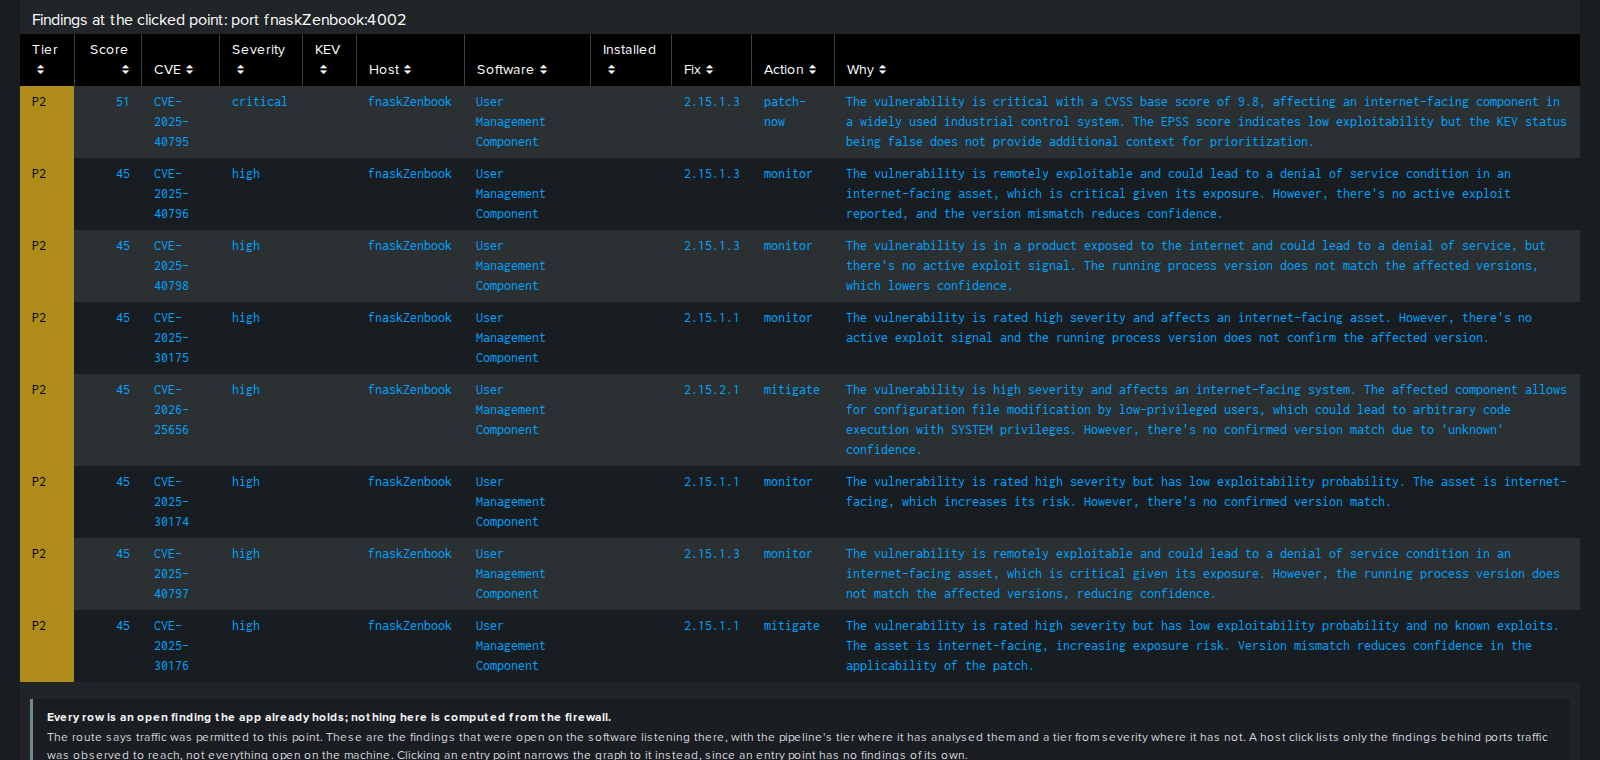
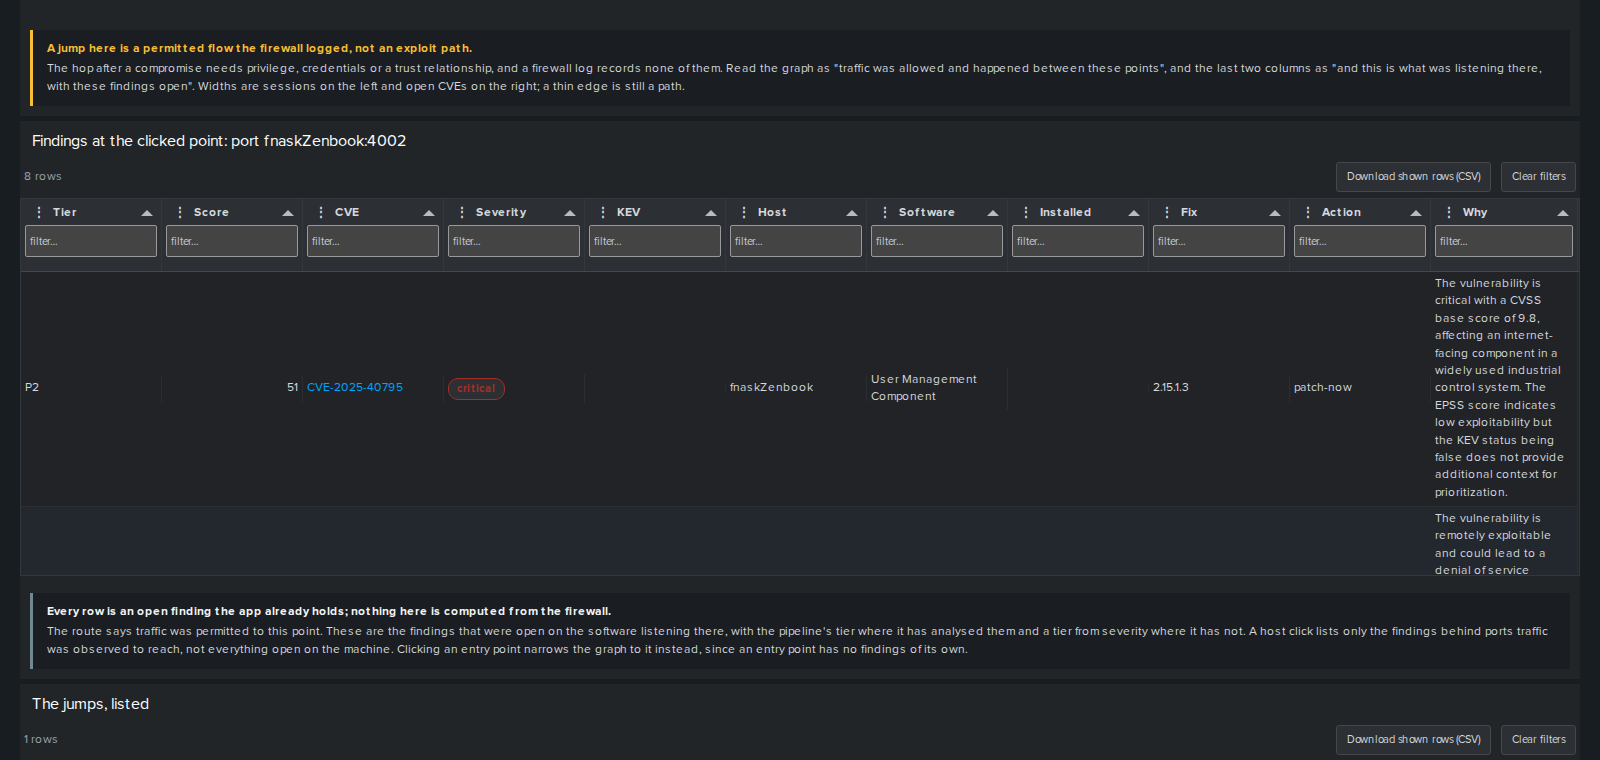
Use the app's grid for the two Routes tables, and publish a screenshot gallery
The findings drill-down and the jumps list were plain Simple XML tables,
while every other table in the app is the riskability_grid viz: sortable
and filterable per column, wrapping, with a filter note and an honest
empty state. Both now use it. The CVE cell still opens the encyclopaedia,
through the grid's click.name and row.CVE rather than the plain table's
field condition.

docs/index.html is a gallery of every capture under docs/screenshots,
built by tools/build_gallery.py from a caption table, with a section for
the pages that changed today on top and a filter box. GitHub Pages serves
it from the docs folder, so a capture committed there is browsable at a
URL with no build step. Fresh captures of the five pages that changed
today are included.

Claude-Session: https://claude.ai/code/session_015h4XPQmzofVzmoNycK2dQN

diff --git a/docs/index.html b/docs/index.html
@@ -1,0 +1,167 @@
+<!doctype html>
+<html lang="en">
+<head>
+<meta charset="utf-8">
+<meta name="viewport" content="width=device-width, initial-scale=1">
+<title>Riskability screenshots</title>
+<meta name="color-scheme" content="dark light">
+<style>
+  :root { --bg:#171d21; --panel:#1f262c; --line:#2f3a44; --fg:#e6ebef; --dim:#b9c2cc; --accent:#8b1a1a; --amber:#f8be34; }
+  @media (prefers-color-scheme: light) { :root { --bg:#f5f6f7; --panel:#fff; --line:#d9dee3; --fg:#1a1d21; --dim:#5a6672; } }
+  * { box-sizing:border-box }
+  body { margin:0; background:var(--bg); color:var(--fg); font:14px/1.5 -apple-system, "Segoe UI", Roboto, Helvetica, Arial, sans-serif; }
+  header { padding:28px 32px 12px; border-bottom:3px solid var(--accent); }
+  header h1 { margin:0 0 4px; font-size:22px; }
+  header p { margin:0; color:var(--dim); max-width:90ch; }
+  h2 { font-size:15px; margin:28px 32px 10px; color:var(--amber); text-transform:uppercase; letter-spacing:.04em; }
+  .grid { display:grid; grid-template-columns:repeat(auto-fill, minmax(420px, 1fr)); gap:18px; padding:0 32px 32px; }
+  .card { margin:0; background:var(--panel); border:1px solid var(--line); border-radius:6px; overflow:hidden; }
+  .card img { display:block; width:100%; height:auto; aspect-ratio:16/10; object-fit:cover; object-position:top; border-bottom:1px solid var(--line); }
+  .card figcaption { padding:10px 12px 12px; font-size:13px; }
+  .card b { display:block; margin-bottom:2px; }
+  .dim { color:var(--dim); }
+  .date { display:block; margin-top:6px; font-size:11px; color:var(--dim); }
+  .search { margin:14px 32px 0; }
+  .search input { width:100%; max-width:480px; padding:7px 10px; border:1px solid var(--line); border-radius:4px; background:var(--panel); color:var(--fg); font-size:13px; }
+  footer { padding:12px 32px 28px; color:var(--dim); font-size:12px; }
+</style>
+</head>
+<body>
+<header>
+  <h1>Riskability screenshots</h1>
+  <p>Captures of every dashboard, taken from a live instance against real inventory and demo firewall data. Click any image to open it at full size. The files live in <code>docs/screenshots/</code> and this page lists whatever is there.</p>
+</header>
+<div class="search"><input type="search" id="q" placeholder="Filter by name or caption" aria-label="Filter screenshots"></div>
+<h2>Changed on 2026-09-03</h2>
+<div class="grid" id="today">
+      <figure class="card" data-name="ai-prioritization">
+        <a href="screenshots/ai-prioritization.png" target="_blank" rel="noopener"><img loading="lazy" src="screenshots/ai-prioritization.png" alt="AI prioritization"></a>
+        <figcaption><b>AI prioritization</b> <span class="dim">The sea of CVEs banded by exploit likelihood, the few lifted above the waterline, and the paged, sortable, filterable work queue with the model&#x27;s reasoning beside each row.</span><span class="date">2026-09-02</span></figcaption>
+      </figure>
+      <figure class="card" data-name="ai-explain-rendered">
+        <a href="screenshots/ai-explain-rendered.png" target="_blank" rel="noopener"><img loading="lazy" src="screenshots/ai-explain-rendered.png" alt="Explain in depth, rendered"></a>
+        <figcaption><b>Explain in depth, rendered</b> <span class="dim">A saved explanation opened from its green button: headings, paragraphs and lists built from the model&#x27;s markdown, with Re-run beside it.</span><span class="date">uncommitted</span></figcaption>
+      </figure>
+      <figure class="card" data-name="network-evidence">
+        <a href="screenshots/network-evidence.png" target="_blank" rel="noopener"><img loading="lazy" src="screenshots/network-evidence.png" alt="Network evidence"></a>
+        <figcaption><b>Network evidence</b> <span class="dim">Whether a permitted flow to a listening port has been observed, the coverage state that gates every grade, and where the app refused to name a host.</span><span class="date">uncommitted</span></figcaption>
+      </figure>
+      <figure class="card" data-name="netevidence-grades">
+        <a href="screenshots/netevidence-grades.png" target="_blank" rel="noopener"><img loading="lazy" src="screenshots/netevidence-grades.png" alt="Network evidence, grades"></a>
+        <figcaption><b>Network evidence, grades</b> <span class="dim">The grade donut: no green anywhere, because none of these grades means safe.</span><span class="date">2026-09-02</span></figcaption>
+      </figure>
+      <figure class="card" data-name="routes">
+        <a href="screenshots/routes.png" target="_blank" rel="noopener"><img loading="lazy" src="screenshots/routes.png" alt="Routes"></a>
+        <figcaption><b>Routes</b> <span class="dim">The jumps a permitted flow has been seen to make: entry point, host reached, port, software listening, open findings.</span><span class="date">2026-09-02</span></figcaption>
+      </figure>
+      <figure class="card" data-name="routes-drilldown">
+        <a href="screenshots/routes-drilldown.png" target="_blank" rel="noopener"><img loading="lazy" src="screenshots/routes-drilldown.png" alt="Routes, drill-down"></a>
+        <figcaption><b>Routes, drill-down</b> <span class="dim">Clicking a point on the route opens the findings behind it on the same page.</span><span class="date">2026-09-03</span></figcaption>
+      </figure>
+      <figure class="card" data-name="admin-escalation-rules">
+        <a href="screenshots/admin-escalation-rules.png" target="_blank" rel="noopener"><img loading="lazy" src="screenshots/admin-escalation-rules.png" alt="Escalation rules (admin)"></a>
+        <figcaption><b>Escalation rules (admin)</b> <span class="dim">Every rule with a switch, the replay of what each would move, and locked rules with the reason they cannot be enabled.</span><span class="date">uncommitted</span></figcaption>
+      </figure>
+      <figure class="card" data-name="admin-firewall-source">
+        <a href="screenshots/admin-firewall-source.png" target="_blank" rel="noopener"><img loading="lazy" src="screenshots/admin-firewall-source.png" alt="Firewall data source (admin)"></a>
+        <figcaption><b>Firewall data source (admin)</b> <span class="dim">Index or accelerated data model, field mapping, entry points, freshness; Test and top-100 preview before Save.</span><span class="date">uncommitted</span></figcaption>
+      </figure>
+</div>
+<h2>Everything else</h2>
+<div class="grid" id="rest">
+      <figure class="card" data-name="attack-matrix-fuller">
+        <a href="screenshots/attack-matrix-fuller.png" target="_blank" rel="noopener"><img loading="lazy" src="screenshots/attack-matrix-fuller.png" alt="ATT&amp;CK matrix"></a>
+        <figcaption><b>ATT&amp;CK matrix</b><span class="date">2026-08-27</span></figcaption>
+      </figure>
+      <figure class="card" data-name="capec-attack-patterns">
+        <a href="screenshots/capec-attack-patterns.png" target="_blank" rel="noopener"><img loading="lazy" src="screenshots/capec-attack-patterns.png" alt="CAPEC attack patterns"></a>
+        <figcaption><b>CAPEC attack patterns</b><span class="date">2026-08-26</span></figcaption>
+      </figure>
+      <figure class="card" data-name="config-surface">
+        <a href="screenshots/config-surface.png" target="_blank" rel="noopener"><img loading="lazy" src="screenshots/config-surface.png" alt="Configuration surface"></a>
+        <figcaption><b>Configuration surface</b><span class="date">2026-08-27</span></figcaption>
+      </figure>
+      <figure class="card" data-name="coverage">
+        <a href="screenshots/coverage.png" target="_blank" rel="noopener"><img loading="lazy" src="screenshots/coverage.png" alt="Coverage"></a>
+        <figcaption><b>Coverage</b><span class="date">2026-08-23</span></figcaption>
+      </figure>
+      <figure class="card" data-name="cve-encyclopaedia">
+        <a href="screenshots/cve-encyclopaedia.png" target="_blank" rel="noopener"><img loading="lazy" src="screenshots/cve-encyclopaedia.png" alt="CVE encyclopaedia"></a>
+        <figcaption><b>CVE encyclopaedia</b><span class="date">2026-08-23</span></figcaption>
+      </figure>
+      <figure class="card" data-name="end-of-support">
+        <a href="screenshots/end-of-support.png" target="_blank" rel="noopener"><img loading="lazy" src="screenshots/end-of-support.png" alt="End of support"></a>
+        <figcaption><b>End of support</b><span class="date">2026-08-29</span></figcaption>
+      </figure>
+      <figure class="card" data-name="end-of-support-hosts">
+        <a href="screenshots/end-of-support-hosts.png" target="_blank" rel="noopener"><img loading="lazy" src="screenshots/end-of-support-hosts.png" alt="End of support, hosts"></a>
+        <figcaption><b>End of support, hosts</b><span class="date">2026-08-29</span></figcaption>
+      </figure>
+      <figure class="card" data-name="escalations">
+        <a href="screenshots/escalations.png" target="_blank" rel="noopener"><img loading="lazy" src="screenshots/escalations.png" alt="Escalation rules (earlier, main app)"></a>
+        <figcaption><b>Escalation rules (earlier, main app)</b> <span class="dim">Before the page moved to the admin app.</span><span class="date">2026-09-02</span></figcaption>
+      </figure>
+      <figure class="card" data-name="exposure">
+        <a href="screenshots/exposure.png" target="_blank" rel="noopener"><img loading="lazy" src="screenshots/exposure.png" alt="Exposure"></a>
+        <figcaption><b>Exposure</b> <span class="dim">The priority matrix and the reachability chain.</span><span class="date">2026-08-23</span></figcaption>
+      </figure>
+      <figure class="card" data-name="feed-administration">
+        <a href="screenshots/feed-administration.png" target="_blank" rel="noopener"><img loading="lazy" src="screenshots/feed-administration.png" alt="Feed administration (admin)"></a>
+        <figcaption><b>Feed administration (admin)</b><span class="date">2026-08-23</span></figcaption>
+      </figure>
+      <figure class="card" data-name="feed-import-progress">
+        <a href="screenshots/feed-import-progress.png" target="_blank" rel="noopener"><img loading="lazy" src="screenshots/feed-import-progress.png" alt="Feed import progress (admin)"></a>
+        <figcaption><b>Feed import progress (admin)</b><span class="date">2026-08-23</span></figcaption>
+      </figure>
+      <figure class="card" data-name="findings">
+        <a href="screenshots/findings.png" target="_blank" rel="noopener"><img loading="lazy" src="screenshots/findings.png" alt="Findings"></a>
+        <figcaption><b>Findings</b><span class="date">2026-08-23</span></figcaption>
+      </figure>
+      <figure class="card" data-name="fleet-overview">
+        <a href="screenshots/fleet-overview.png" target="_blank" rel="noopener"><img loading="lazy" src="screenshots/fleet-overview.png" alt="Fleet overview"></a>
+        <figcaption><b>Fleet overview</b><span class="date">2026-08-23</span></figcaption>
+      </figure>
+      <figure class="card" data-name="hosts">
+        <a href="screenshots/hosts.png" target="_blank" rel="noopener"><img loading="lazy" src="screenshots/hosts.png" alt="Hosts"></a>
+        <figcaption><b>Hosts</b><span class="date">2026-08-23</span></figcaption>
+      </figure>
+      <figure class="card" data-name="kev-bridge">
+        <a href="screenshots/kev-bridge.png" target="_blank" rel="noopener"><img loading="lazy" src="screenshots/kev-bridge.png" alt="KEV bridge"></a>
+        <figcaption><b>KEV bridge</b><span class="date">2026-08-26</span></figcaption>
+      </figure>
+      <figure class="card" data-name="mitigation-coverage">
+        <a href="screenshots/mitigation-coverage.png" target="_blank" rel="noopener"><img loading="lazy" src="screenshots/mitigation-coverage.png" alt="Mitigation coverage"></a>
+        <figcaption><b>Mitigation coverage</b><span class="date">2026-08-26</span></figcaption>
+      </figure>
+      <figure class="card" data-name="mitre-attack">
+        <a href="screenshots/mitre-attack.png" target="_blank" rel="noopener"><img loading="lazy" src="screenshots/mitre-attack.png" alt="MITRE ATT&amp;CK"></a>
+        <figcaption><b>MITRE ATT&amp;CK</b><span class="date">2026-08-23</span></figcaption>
+      </figure>
+      <figure class="card" data-name="netevidence">
+        <a href="screenshots/netevidence.png" target="_blank" rel="noopener"><img loading="lazy" src="screenshots/netevidence.png" alt="Netevidence"></a>
+        <figcaption><b>Netevidence</b><span class="date">2026-09-02</span></figcaption>
+      </figure>
+      <figure class="card" data-name="remediation">
+        <a href="screenshots/remediation.png" target="_blank" rel="noopener"><img loading="lazy" src="screenshots/remediation.png" alt="Remediation"></a>
+        <figcaption><b>Remediation</b><span class="date">2026-08-23</span></figcaption>
+      </figure>
+      <figure class="card" data-name="risk-exceptions">
+        <a href="screenshots/risk-exceptions.png" target="_blank" rel="noopener"><img loading="lazy" src="screenshots/risk-exceptions.png" alt="Risk exceptions"></a>
+        <figcaption><b>Risk exceptions</b><span class="date">2026-08-23</span></figcaption>
+      </figure>
+      <figure class="card" data-name="start-here">
+        <a href="screenshots/start-here.png" target="_blank" rel="noopener"><img loading="lazy" src="screenshots/start-here.png" alt="Start here"></a>
+        <figcaption><b>Start here</b><span class="date">2026-08-23</span></figcaption>
+      </figure>
+</div>
+<footer>Served by GitHub Pages from the <code>docs/</code> folder of <a href="https://github.com/chaugan/riskability">chaugan/riskability</a>. Re-run <code>tools/build_gallery.py</code> after adding captures.</footer>
+<script>
+  document.getElementById('q').addEventListener('input', function () {
+    var q = this.value.trim().toLowerCase();
+    document.querySelectorAll('.card').forEach(function (c) {
+      c.hidden = q && c.textContent.toLowerCase().indexOf(q) < 0 && c.dataset.name.indexOf(q) < 0;
+    });
+  });
+</script>
+</body>
+</html>

diff --git a/tools/gallery_template.html b/tools/gallery_template.html
@@ -1,0 +1,53 @@
+<!doctype html>
+<html lang="en">
+<head>
+<meta charset="utf-8">
+<meta name="viewport" content="width=device-width, initial-scale=1">
+<title>Riskability screenshots</title>
+<meta name="color-scheme" content="dark light">
+<style>
+  :root { --bg:#171d21; --panel:#1f262c; --line:#2f3a44; --fg:#e6ebef; --dim:#b9c2cc; --accent:#8b1a1a; --amber:#f8be34; }
+  @media (prefers-color-scheme: light) { :root { --bg:#f5f6f7; --panel:#fff; --line:#d9dee3; --fg:#1a1d21; --dim:#5a6672; } }
+  * { box-sizing:border-box }
+  body { margin:0; background:var(--bg); color:var(--fg); font:14px/1.5 -apple-system, "Segoe UI", Roboto, Helvetica, Arial, sans-serif; }
+  header { padding:28px 32px 12px; border-bottom:3px solid var(--accent); }
+  header h1 { margin:0 0 4px; font-size:22px; }
+  header p { margin:0; color:var(--dim); max-width:90ch; }
+  h2 { font-size:15px; margin:28px 32px 10px; color:var(--amber); text-transform:uppercase; letter-spacing:.04em; }
+  .grid { display:grid; grid-template-columns:repeat(auto-fill, minmax(420px, 1fr)); gap:18px; padding:0 32px 32px; }
+  .card { margin:0; background:var(--panel); border:1px solid var(--line); border-radius:6px; overflow:hidden; }
+  .card img { display:block; width:100%; height:auto; aspect-ratio:16/10; object-fit:cover; object-position:top; border-bottom:1px solid var(--line); }
+  .card figcaption { padding:10px 12px 12px; font-size:13px; }
+  .card b { display:block; margin-bottom:2px; }
+  .dim { color:var(--dim); }
+  .date { display:block; margin-top:6px; font-size:11px; color:var(--dim); }
+  .search { margin:14px 32px 0; }
+  .search input { width:100%; max-width:480px; padding:7px 10px; border:1px solid var(--line); border-radius:4px; background:var(--panel); color:var(--fg); font-size:13px; }
+  footer { padding:12px 32px 28px; color:var(--dim); font-size:12px; }
+</style>
+</head>
+<body>
+<header>
+  <h1>Riskability screenshots</h1>
+  <p>Captures of every dashboard, taken from a live instance against real inventory and demo firewall data. Click any image to open it at full size. The files live in <code>docs/screenshots/</code> and this page lists whatever is there.</p>
+</header>
+<div class="search"><input type="search" id="q" placeholder="Filter by name or caption" aria-label="Filter screenshots"></div>
+<h2>{{RECENT_TITLE}}</h2>
+<div class="grid" id="today">
+{{RECENT}}
+</div>
+<h2>Everything else</h2>
+<div class="grid" id="rest">
+{{REST}}
+</div>
+<footer>Served by GitHub Pages from the <code>docs/</code> folder of <a href="https://github.com/chaugan/riskability">chaugan/riskability</a>. Re-run <code>tools/build_gallery.py</code> after adding captures.</footer>
+<script>
+  document.getElementById('q').addEventListener('input', function () {
+    var q = this.value.trim().toLowerCase();
+    document.querySelectorAll('.card').forEach(function (c) {
+      c.hidden = q && c.textContent.toLowerCase().indexOf(q) < 0 && c.dataset.name.indexOf(q) < 0;
+    });
+  });
+</script>
+</body>
+</html>

diff --git a/tools/build_gallery.py b/tools/build_gallery.py
@@ -1,0 +1,69 @@
+#!/usr/bin/env python3
+"""Rebuild docs/index.html, the screenshot gallery GitHub Pages serves.
+
+    python3 tools/build_gallery.py
+
+Lists every PNG under docs/screenshots with a caption from the table below,
+or its file name when it has none, so a new capture is never silently
+missing from the gallery. Dates come from git. No dependencies.
+"""
+import html, os, subprocess, sys
+
+ROOT = os.path.dirname(os.path.dirname(os.path.abspath(__file__)))
+SHOTS = "docs/screenshots"
+
+CAPTIONS = {
+ "ai-prioritization":      ("AI prioritization", "The sea of CVEs banded by exploit likelihood, the few lifted above the waterline, and the paged, sortable, filterable work queue with the model's reasoning beside each row."),
+ "ai-explain-rendered":    ("Explain in depth, rendered", "A saved explanation opened from its green button: headings, paragraphs and lists built from the model's markdown, with Re-run beside it."),
+ "network-evidence":       ("Network evidence", "Whether a permitted flow to a listening port has been observed, the coverage state that gates every grade, and where the app refused to name a host."),
+ "netevidence-grades":     ("Network evidence, grades", "The grade donut: no green anywhere, because none of these grades means safe."),
+ "routes":                 ("Routes", "The jumps a permitted flow has been seen to make: entry point, host reached, port, software listening, open findings."),
+ "routes-drilldown":       ("Routes, drill-down", "Clicking a point on the route opens the findings behind it on the same page."),
+ "admin-escalation-rules": ("Escalation rules (admin)", "Every rule with a switch, the replay of what each would move, and locked rules with the reason they cannot be enabled."),
+ "admin-firewall-source":  ("Firewall data source (admin)", "Index or accelerated data model, field mapping, entry points, freshness; Test and top-100 preview before Save."),
+ "escalations":            ("Escalation rules (earlier, main app)", "Before the page moved to the admin app."),
+ "exposure":               ("Exposure", "The priority matrix and the reachability chain."),
+ "fleet-overview":         ("Fleet overview", ""), "findings": ("Findings", ""), "remediation": ("Remediation", ""),
+ "mitre-attack":           ("MITRE ATT&CK", ""), "hosts": ("Hosts", ""), "coverage": ("Coverage", ""),
+ "risk-exceptions":        ("Risk exceptions", ""), "cve-encyclopaedia": ("CVE encyclopaedia", ""), "start-here": ("Start here", ""),
+ "feed-administration":    ("Feed administration (admin)", ""), "feed-import-progress": ("Feed import progress (admin)", ""),
+ "config-surface":         ("Configuration surface", ""), "kev-bridge": ("KEV bridge", ""), "mitigation-coverage": ("Mitigation coverage", ""),
+ "capec-attack-patterns":  ("CAPEC attack patterns", ""), "attack-matrix-fuller": ("ATT&CK matrix", ""),
+ "end-of-support":         ("End of support", ""), "end-of-support-hosts": ("End of support, hosts", ""),
+}
+# The section at the top. Edit when a batch of pages changes.
+RECENT_TITLE = "Changed on 2026-09-03"
+RECENT = ["ai-prioritization", "ai-explain-rendered", "network-evidence", "netevidence-grades",
+          "routes", "routes-drilldown", "admin-escalation-rules", "admin-firewall-source"]
+
+
+def when(name):
+    out = subprocess.run(["git", "log", "-1", "--format=%cs", "--", "%s/%s.png" % (SHOTS, name)],
+                         cwd=ROOT, capture_output=True, text=True).stdout.strip()
+    return out or "uncommitted"
+
+
+def card(name):
+    title, cap = CAPTIONS.get(name, (name.replace("-", " ").capitalize(), ""))
+    capx = (' <span class="dim">%s</span>' % html.escape(cap)) if cap else ""
+    return ('      <figure class="card" data-name="%s">\n'
+            '        <a href="screenshots/%s.png" target="_blank" rel="noopener"><img loading="lazy" src="screenshots/%s.png" alt="%s"></a>\n'
+            '        <figcaption><b>%s</b>%s<span class="date">%s</span></figcaption>\n'
+            '      </figure>' % (html.escape(name), name, name, html.escape(title), html.escape(title), capx, when(name)))
+
+
+def main():
+    files = sorted(f[:-4] for f in os.listdir(os.path.join(ROOT, SHOTS)) if f.endswith(".png"))
+    recent = [n for n in RECENT if n in files]
+    rest = [n for n in files if n not in RECENT]
+    tpl = open(os.path.join(ROOT, "tools", "gallery_template.html"), encoding="utf-8").read()
+    page = (tpl.replace("{{RECENT_TITLE}}", html.escape(RECENT_TITLE))
+               .replace("{{RECENT}}", "\n".join(card(n) for n in recent))
+               .replace("{{REST}}", "\n".join(card(n) for n in rest)))
+    open(os.path.join(ROOT, "docs", "index.html"), "w", encoding="utf-8").write(page)
+    print("gallery: %d recent, %d others" % (len(recent), len(rest)))
+    return 0
+
+
+if __name__ == "__main__":
+    sys.exit(main())
